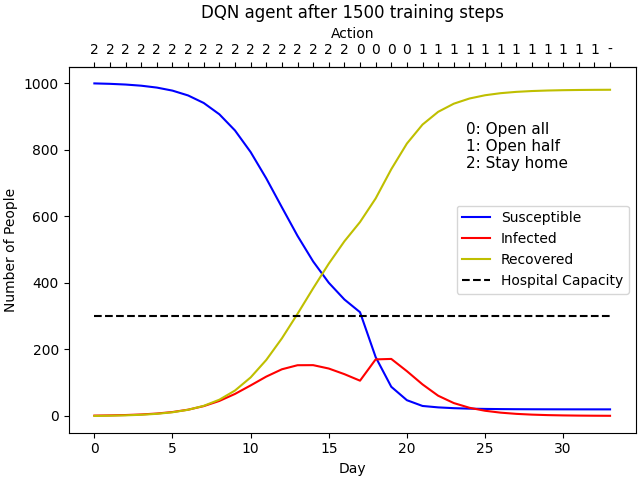
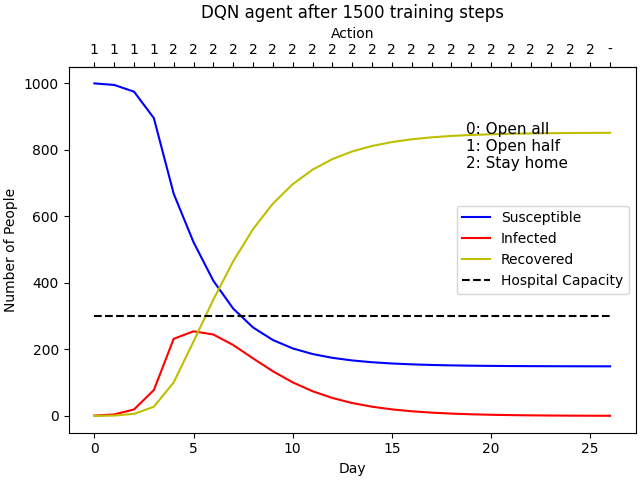
clear up code

diff --git a/COVID19_agents/DQN_simple_SIR.py b/COVID19_agents/DQN_simple_SIR.py
@@ -21,7 +21,7 @@ hospitalCapacity = 300 # maximum number of people in the ICU
 env = simple_SIR_env(S0, I0, R0, hospitalCapacity)
 
 # Define and Train the agent
-numTimesteps = 15000 # number of training steps
+numTimesteps = 50000 # number of training steps
 model = DQN(MlpPolicy,env, tensorboard_log="./DQN_SIR_tensorboard/")
 model.learn(total_timesteps=numTimesteps)
 

diff --git a/COVID19_env/simple_SIR_env.py b/COVID19_env/simple_SIR_env.py
@@ -148,9 +148,11 @@ class simple_SIR_env(gym.Env):
     return observation, reward, done, {}
 
   def reset(self):
+    # reset to initial conditions
     S = self.S0
     I = self.I0
     R = self.R0
+    self.beta  = 0.004
     self.state = (S,I,R)
     observation = np.array(self.state)
     return observation  # reward, done, info can't be included
